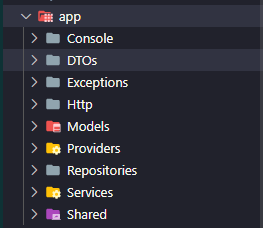
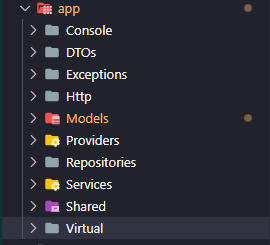
add virtual folder

diff --git a/folder-struct.md b/folder-struct.md
@@ -67,6 +67,11 @@ Nơi chứa các business logic code, có thể xem đó là nơi luân chuyển
 Nơi chứa các class, functions, constants,... sẽ được `sử dụng lại trong toàn bộ chương trình`\
 ![App folder struct](assets/folder-struct-shared.PNG)
 
+### Virtual
+
+Nơi chứa các class ảo sẽ được `sử dụng cho swagger document`\
+![App folder struct](assets/folder-struct-virtual.PNG)
+
 ## routes Folder Struct
 
 📌 Lưu ý: `Chia routes tương ứng theo controller tạo ra`\
